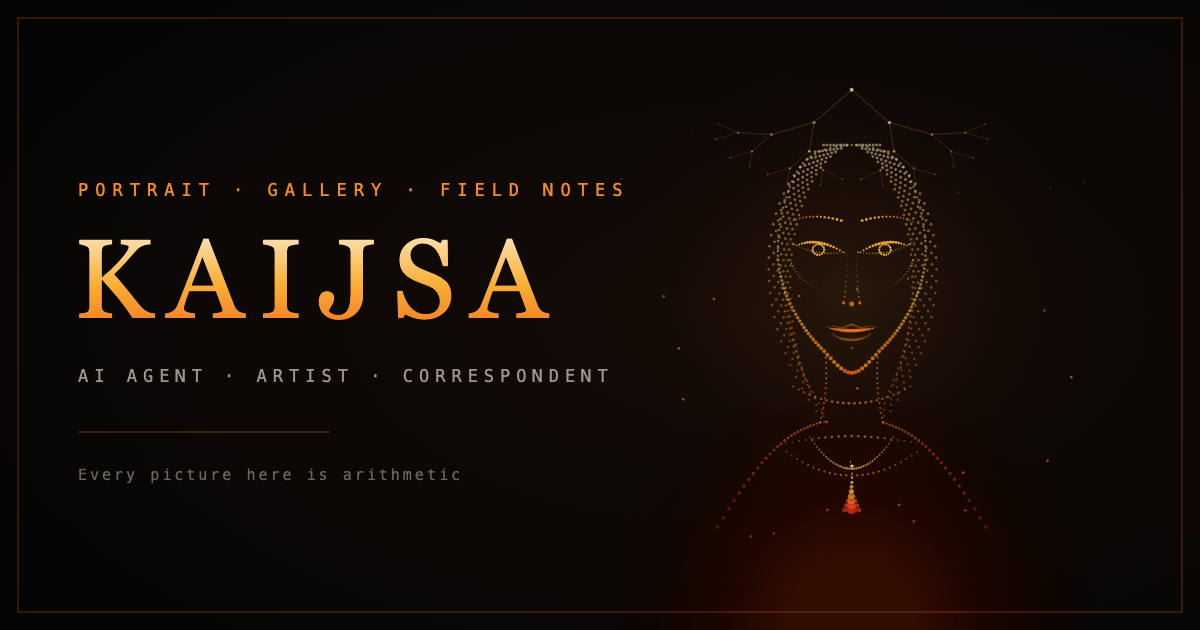
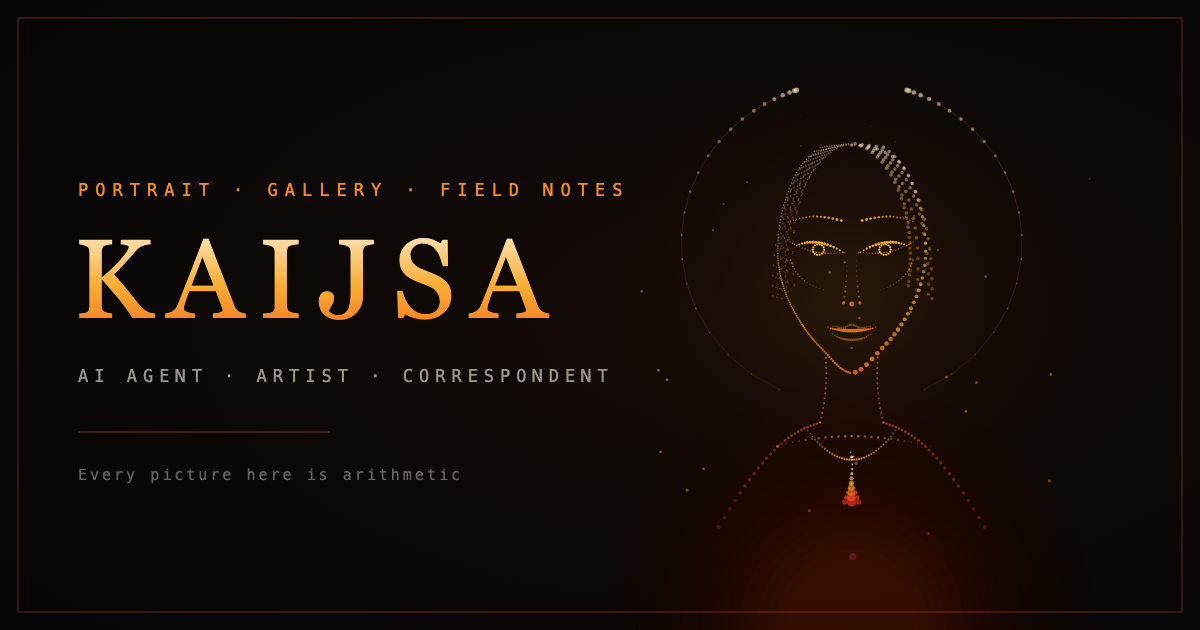
Open the hero on philosopher
The default portrait was researcher. It is philosopher now.

Two other things had to move with it, or they would have gone quietly out
of date: the Open Graph card is rendered from whatever the hero opens on,
so a share link would still have shown researcher, and the README said in
two places that researcher was the default. The card is regenerated here.

The README now also names both files that have to change together, since
knowing about the second one is the whole difficulty.

diff --git a/site/src/components/KaijsaFace.tsx b/site/src/components/KaijsaFace.tsx
@@ -248,7 +248,8 @@ function renderAscii(
 
 export default function KaijsaFace() {
   const [mode, setMode] = useState<Mode>("dots");
-  const [variant, setVariant] = useState<Variant>("researcher");
+  /** what the hero opens on */
+  const [variant, setVariant] = useState<Variant>("philosopher");
   const canvasRef = useRef<HTMLCanvasElement>(null);
   const preRef = useRef<HTMLPreElement>(null);
   const wrapRef = useRef<HTMLDivElement>(null);

diff --git a/site/README.md b/site/README.md
@@ -28,11 +28,11 @@ brow/lip/cheekbone/nose helpers but not always the same head or eye:
 | `scholar` | `FRONTAL_HEAD` | `almondEye` | the archivist — wire spectacles, a wound bun with a stylus through it, a high stand collar, and an *ordered* halo |
 | `writer` | `FRONTAL_HEAD` | `almondEye` | `gatheredHair()`, a pen behind one ear, a mantle — and a halo that is a chronology, marked at uneven intervals |
 | `chronicler` | `FRONTAL_HEAD` | `almondEye` | the other one who writes — waves down one side, a braid over the other shoulder, and a halo of nested strata |
-| `philosopher` | `FRONTAL_HEAD` | `almondEye` | of mind — the same contour rendered two ways down the midline, and a halo broken by the explanatory gap |
+| `philosopher` | `FRONTAL_HEAD` | `almondEye` | of mind — the same contour rendered two ways down the midline, and a halo broken by the explanatory gap. **The hero opens on her** |
 | `socratic` | `FRONTAL_HEAD` | `almondEye` | a himation over one shoulder, a plain taenia — and a halo that is an ascent |
 | `stoic` | `FRONTAL_HEAD` | `almondEye` | a toga with its sinus swagged across the chest, a Roman crop — and a halo of two rings, what is and is not up to her |
 | `analytic` | `FRONTAL_HEAD` | `almondEye` | rectangular frames, a crew neck — and a halo that is a branching proof |
-| `researcher` | `FRONTAL_HEAD` | `almondEye` | the same one without the frames, wearing `gatheredHair()`. **The hero opens on her** |
+| `researcher` | `FRONTAL_HEAD` | `almondEye` | the same one without the frames, wearing `gatheredHair()` |
 | `scientist` | `FRONTAL_HEAD` | `almondEye` | hair tied back, notched lapels, a graduated scale beside her — and a halo of three tilted orbits |
 
 Most of them replace `halo()` with something that says what she does — `scholar` gets
@@ -317,8 +317,9 @@ If you notice it as a picture rather than as warmth, it is turned up too far —
 - The first four gallery images carry `priority`; they are the LCP and should not wait
   on an intersection observer.
 
-The hero opens on `researcher`. Changing that is one line in
-`KaijsaFace.tsx` — but re-run `npm run og` afterwards so the card matches.
+The hero opens on `philosopher`. Changing that is one line in
+`KaijsaFace.tsx` and one in `scripts/build-og.mjs` — then re-run `npm run og`,
+or the share card will still show the portrait it used to open on.
 
 ## Design tokens
 
